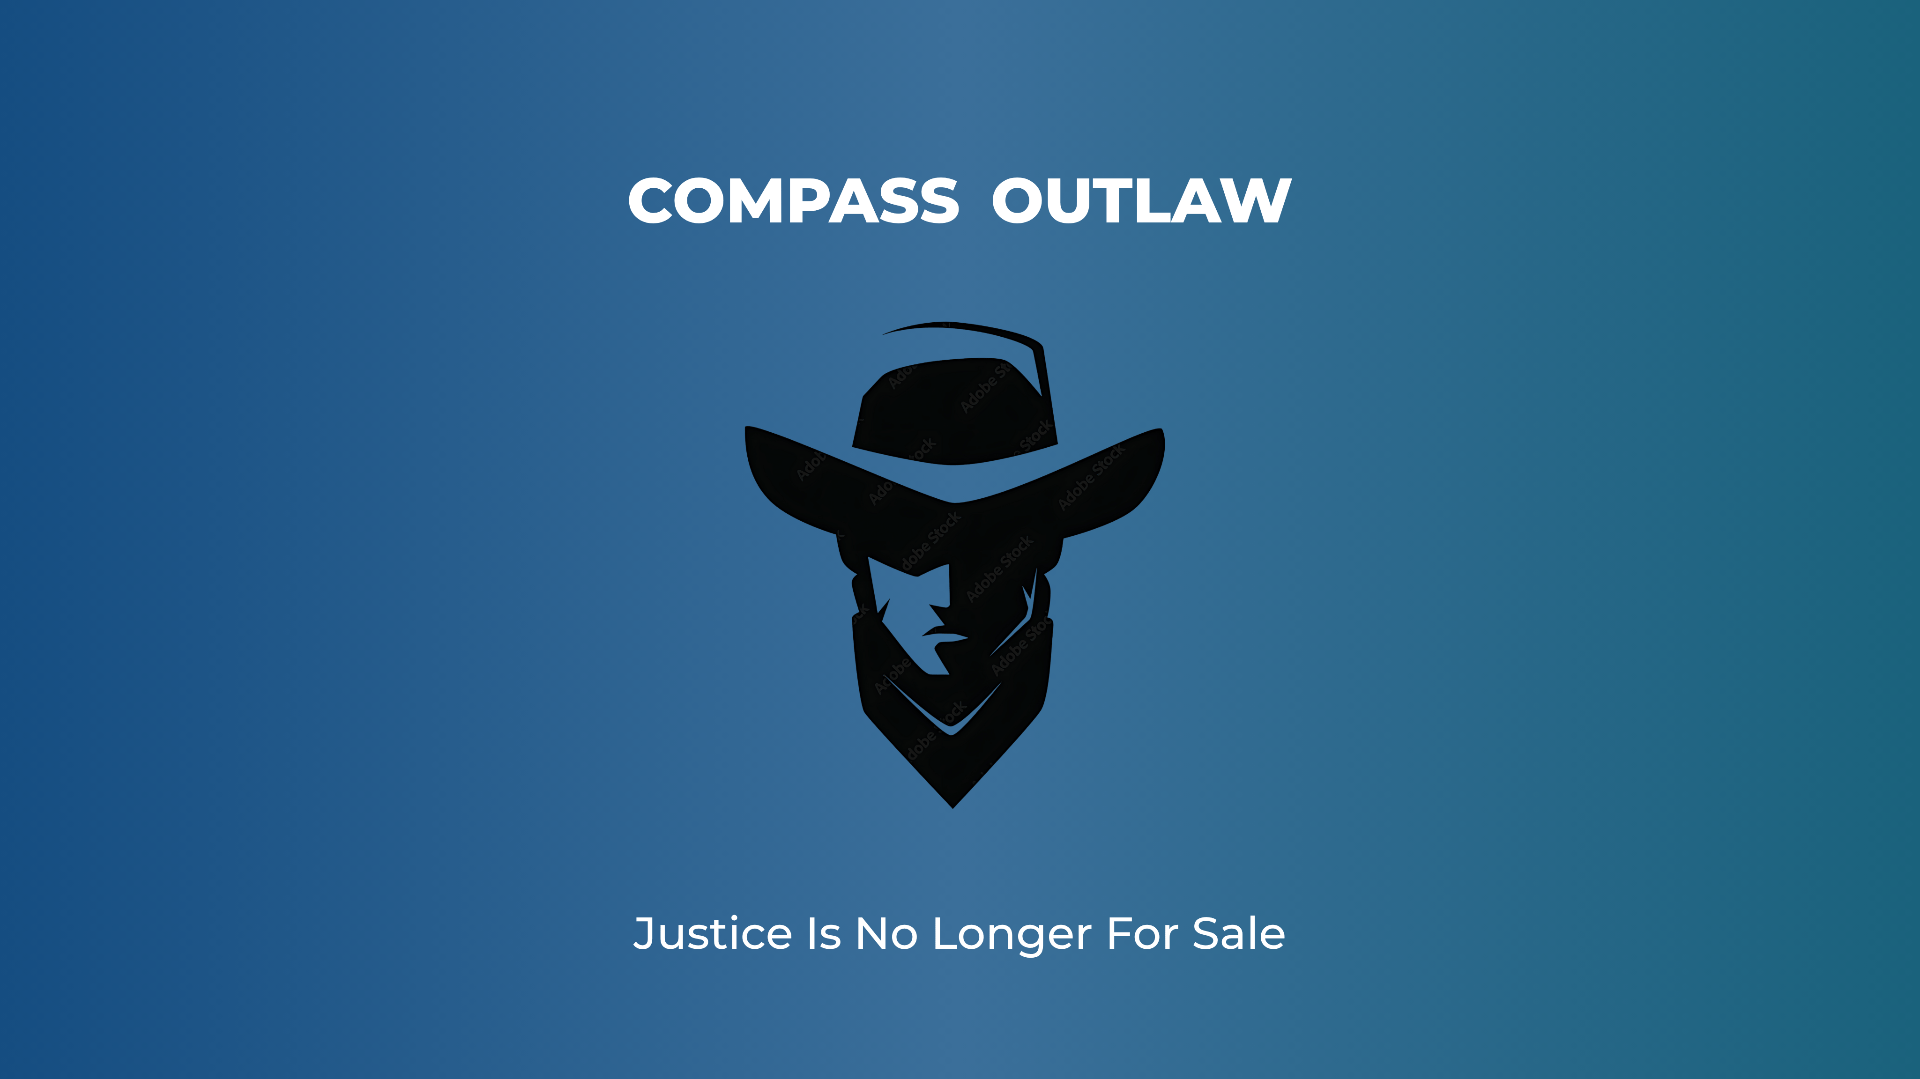
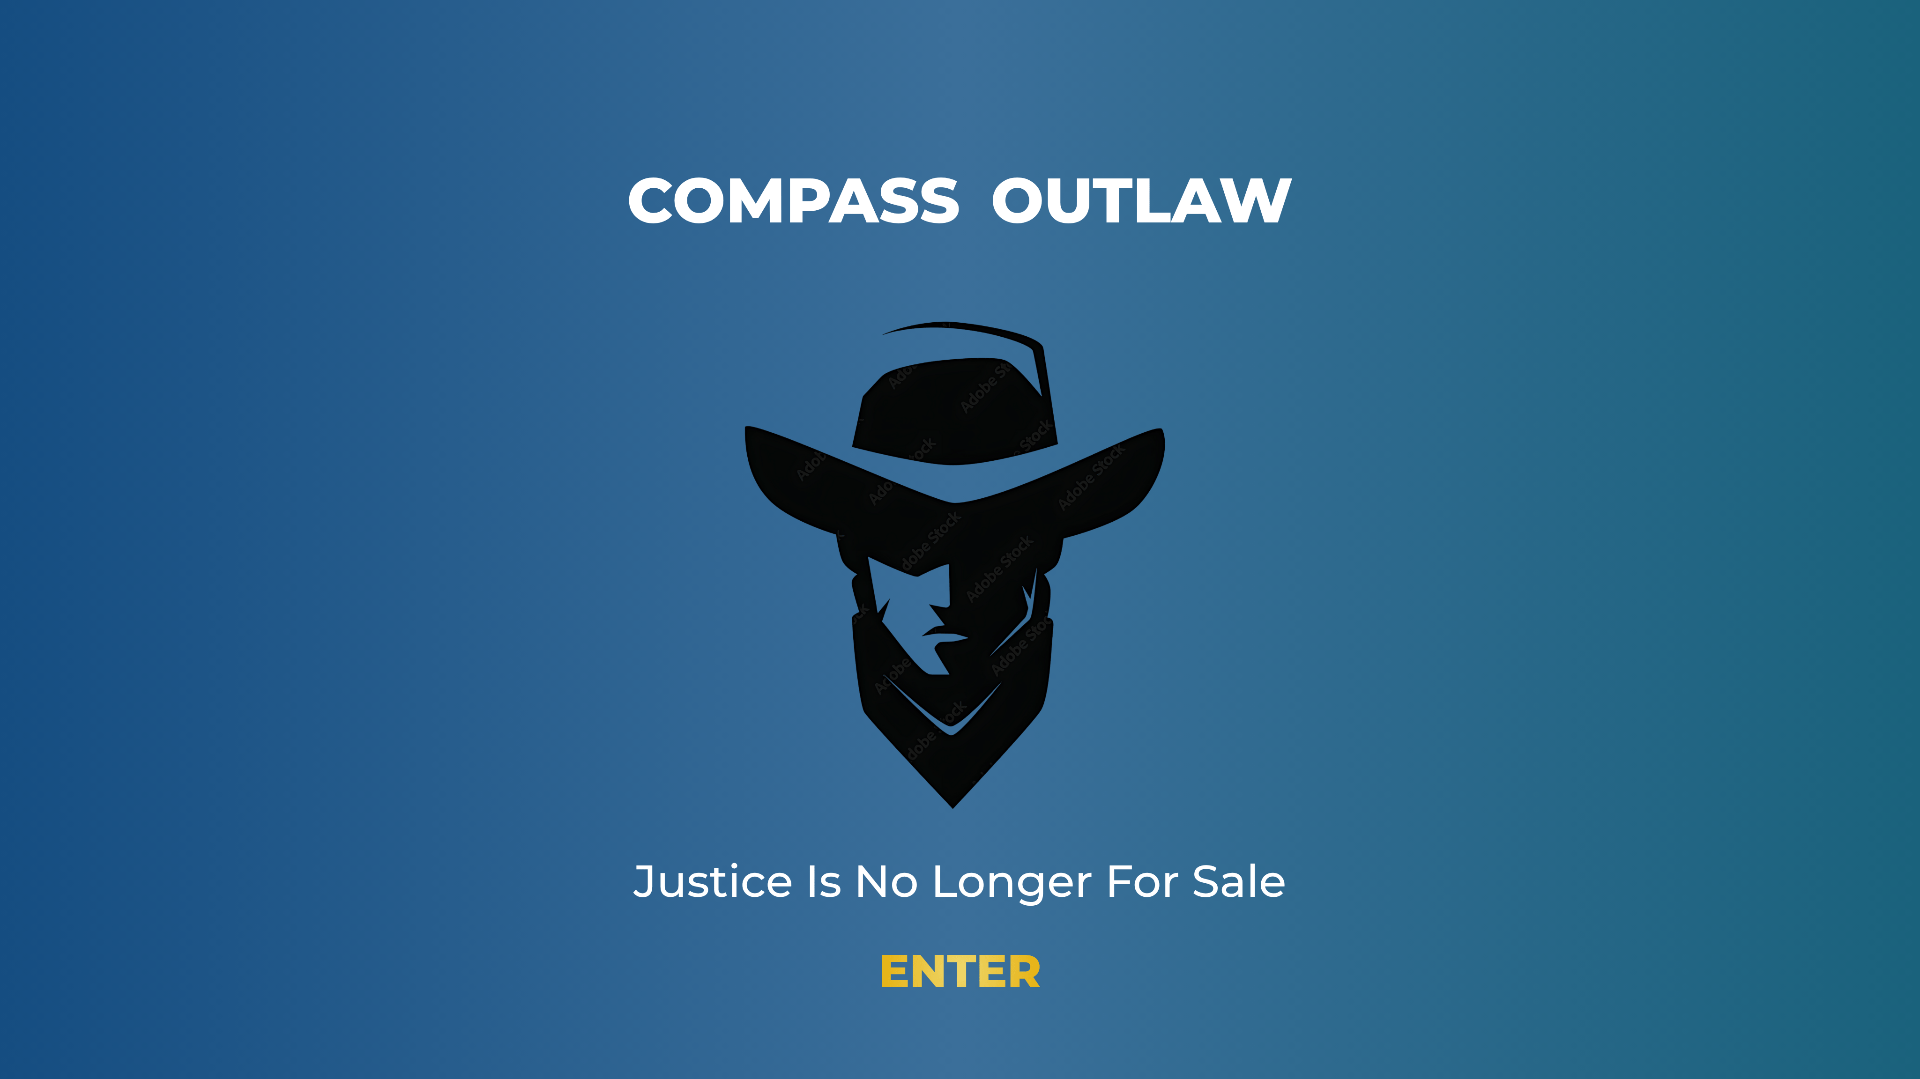
Changes

Changed region(s): [[0.3125, 0.7952, 0.6875, 0.9175]]

diff --git a/src/pages/Landing.tsx b/src/pages/Landing.tsx
@@ -14,18 +14,13 @@ const Landing = () => {
   }, [user, navigate]);
 
   return (
-    <div className="min-h-screen bg-background flex flex-col items-center justify-center p-4">
+    <div className="min-h-screen bg-background flex items-center justify-center p-4">
       <img 
         src={compassOutlawHomepage} 
         alt="Compass Outlaw - Justice Is No Longer For Sale" 
-        className="max-w-4xl w-full h-auto mb-8"
-      />
-      <button
+        className="max-w-4xl w-full h-auto cursor-pointer animate-fade-in hover:scale-[1.02] transition-transform duration-300"
         onClick={() => navigate("/auth")}
-        className="font-montserrat font-extrabold text-2xl tracking-brand uppercase text-primary hover:text-primary/80 transition-colors"
-      >
-        ENTER
-      </button>
+      />
     </div>
   );
 };
